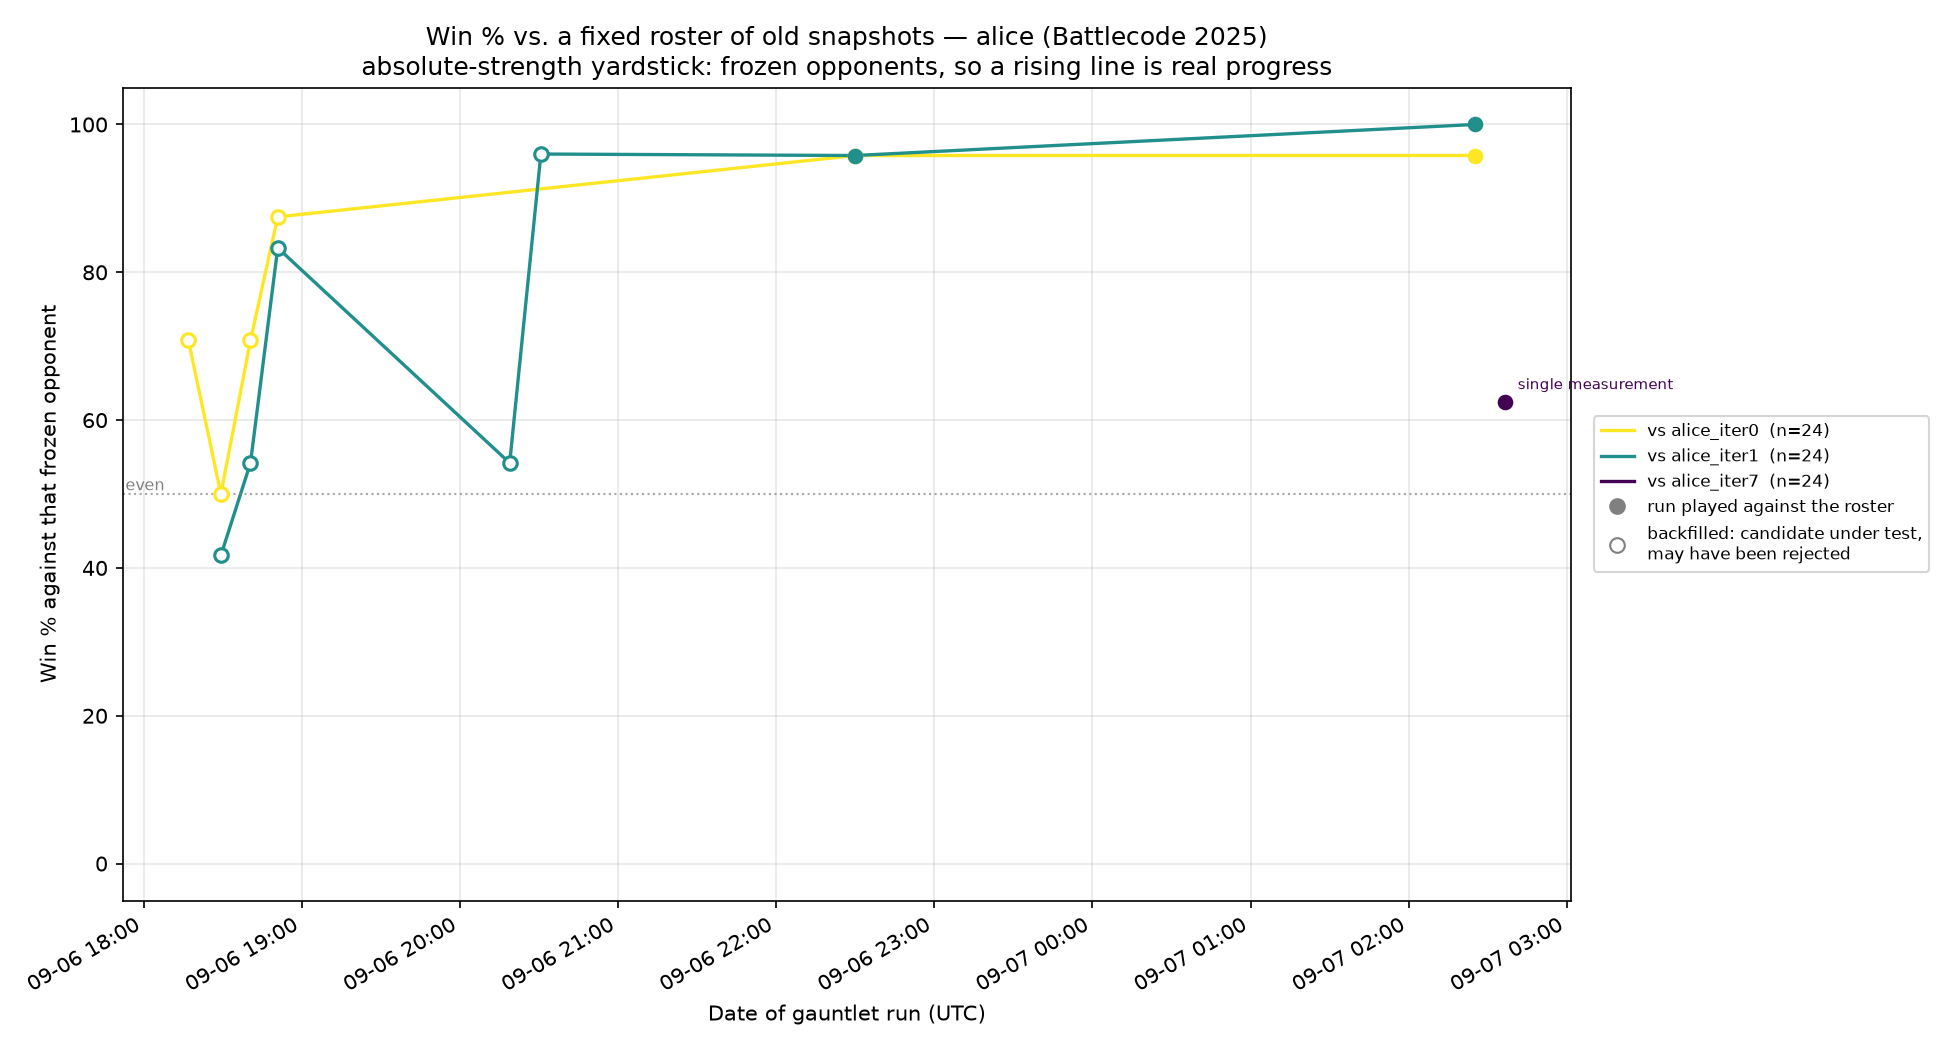
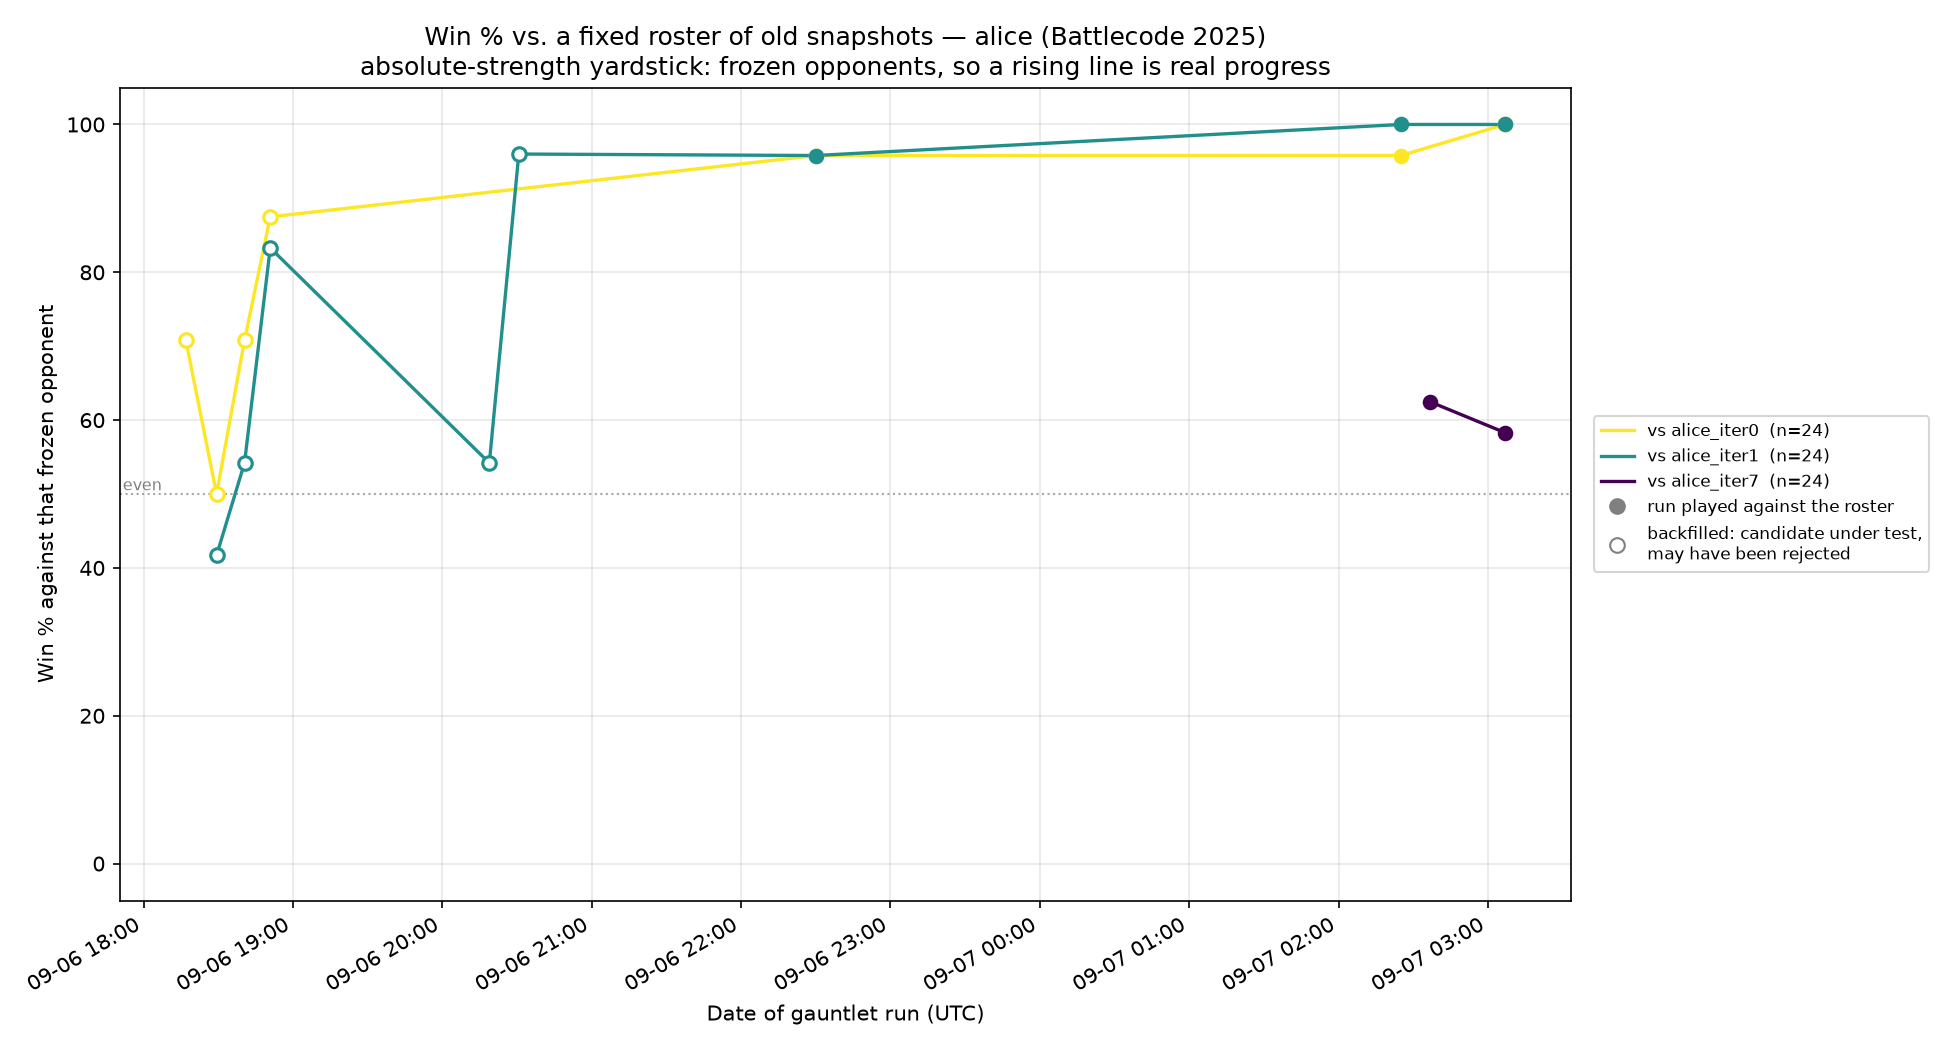
alice: full roster on alice_iter14 -- resolving rung replicates at 58.3%
72 games. The two auto-derived rungs are now perfect scores (24/24 and 24/24,
every map swept both sides), so those lines can never move again -- saturation
confirmed as completely as possible, and the repaired derivation arrived exactly
when it was needed.

The alice_iter7 rung replicates across disjoint map samples: 15/24 (62.5%) and
14/24 (58.3%), pooled 29/48 (60.4%), zero swept losses in either. This closes the
correction: the accept gates read 75% and 60.7% and naive composition implied over
75% cumulative, but the frozen yardstick says 60.4% across 48 games.

Honest limit recorded: the chart is one rung deep. Two of three lines are flat at
100% forever and the informative line has two points.

Claude-Session: https://claude.ai/code/session_01AaaGzxRUmH5UDEVerTki8y

diff --git a/agents/alice/TRAINING_LOG.md b/agents/alice/TRAINING_LOG.md
@@ -3597,3 +3597,45 @@ is specific and checkable.
 
 **Cost of this iteration: two verification matches.** The pre-registered mechanism
 gate did exactly what it exists for — the 28-game run was never spent.
+
+## Full roster on `alice_iter14` — the rung replicates, and the saturation is now total
+
+Run `20260907-030654`, 72 games, 12 fresh maps, `bot.txt` label `alice_iter14`.
+
+| rung | result | swept |
+|---|---|---|
+| `alice_iter0` | **24/24 (100%)** | 12/12 swept, 0 losses |
+| `alice_iter1` | **24/24 (100%)** | 12/12 swept, 0 losses |
+| **`alice_iter7`** | **14/24 (58.3%)** | 2 swept wins, **0 swept losses**, 10 splits |
+
+**The two auto-derived rungs are now perfect scores.** Not 96%, not 98% — 24 of 24
+and 24 of 24, every map swept from both sides. Whatever alice does next, those two
+lines cannot move again. The saturation diagnosis is confirmed as completely as it
+can be, and the repaired derivation arrived exactly when it was needed.
+
+### The resolving rung replicates
+
+| run | map sample | `alice_iter14` vs `alice_iter7` |
+|---|---|---|
+| `20260907-023637` | 12 maps | 15/24 (62.5%) |
+| `20260907-030654` | 12 **different** maps | 14/24 (58.3%) |
+| **pooled** | **24 maps, 48 games** | **29/48 (60.4%)** |
+
+Two independent 24-game measurements on **disjoint map samples**, agreeing within
+one game, with **zero swept losses in either**. That is a far stronger statement
+than either alone: the cumulative gain of this session's two accepted iterations
+over the build they replaced is **~60%**, and it is now replicated rather than
+asserted.
+
+It also closes the loop on the correction I made earlier. The individual accept
+gates read 75% and 60.7%; naive composition implied well over 75% cumulative. The
+frozen yardstick says **60.4%** across 48 games. The gates were not wrong — they
+measured what they measured — but the number that describes the lineage's actual
+progress is the smaller one, and only a frozen opponent could produce it.
+
+**What the chart can and cannot show now.** `vs_old_bots.png` has 17 rows and three
+tracked opponents, but two of its three lines are flat at 100% forever. The single
+informative line is `alice_iter7`, and it has exactly two points. The honest
+reading of my absolute-strength instrument is that it is **one rung deep** — which
+is better than the zero it was this morning, and thin. It will not become
+trustworthy until several more accepted snapshots give it rungs at 60-90%.
